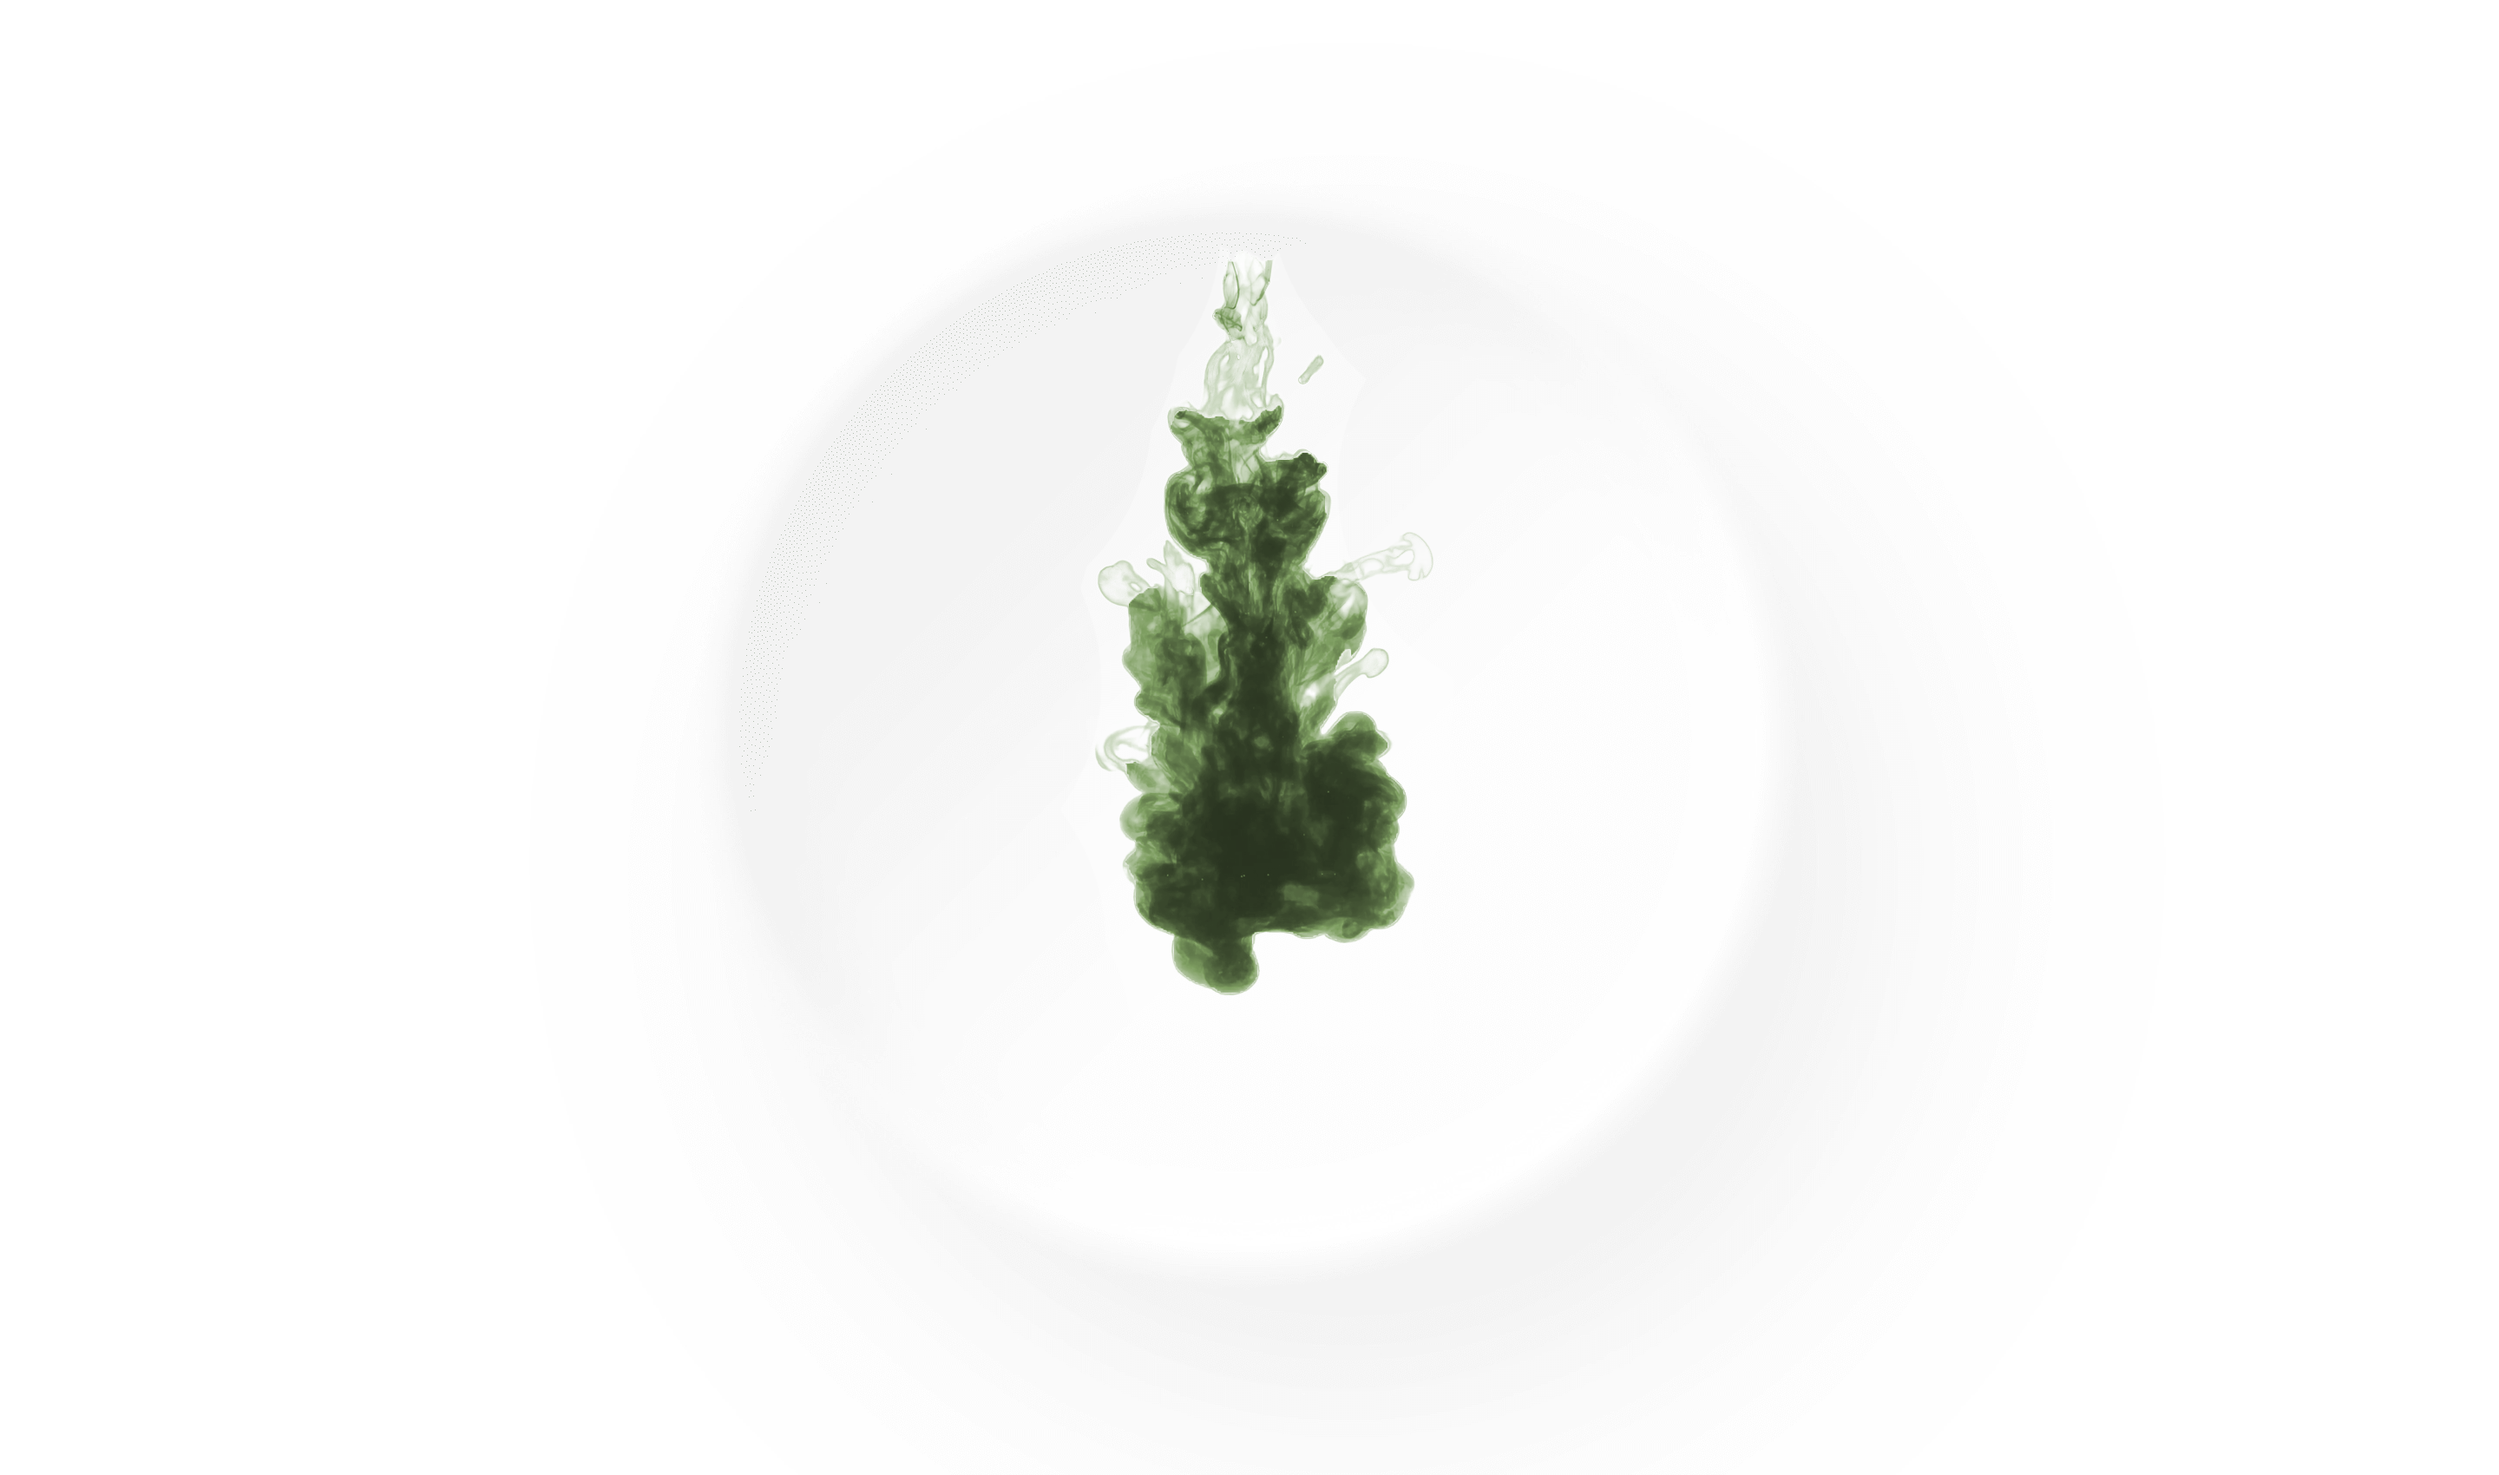
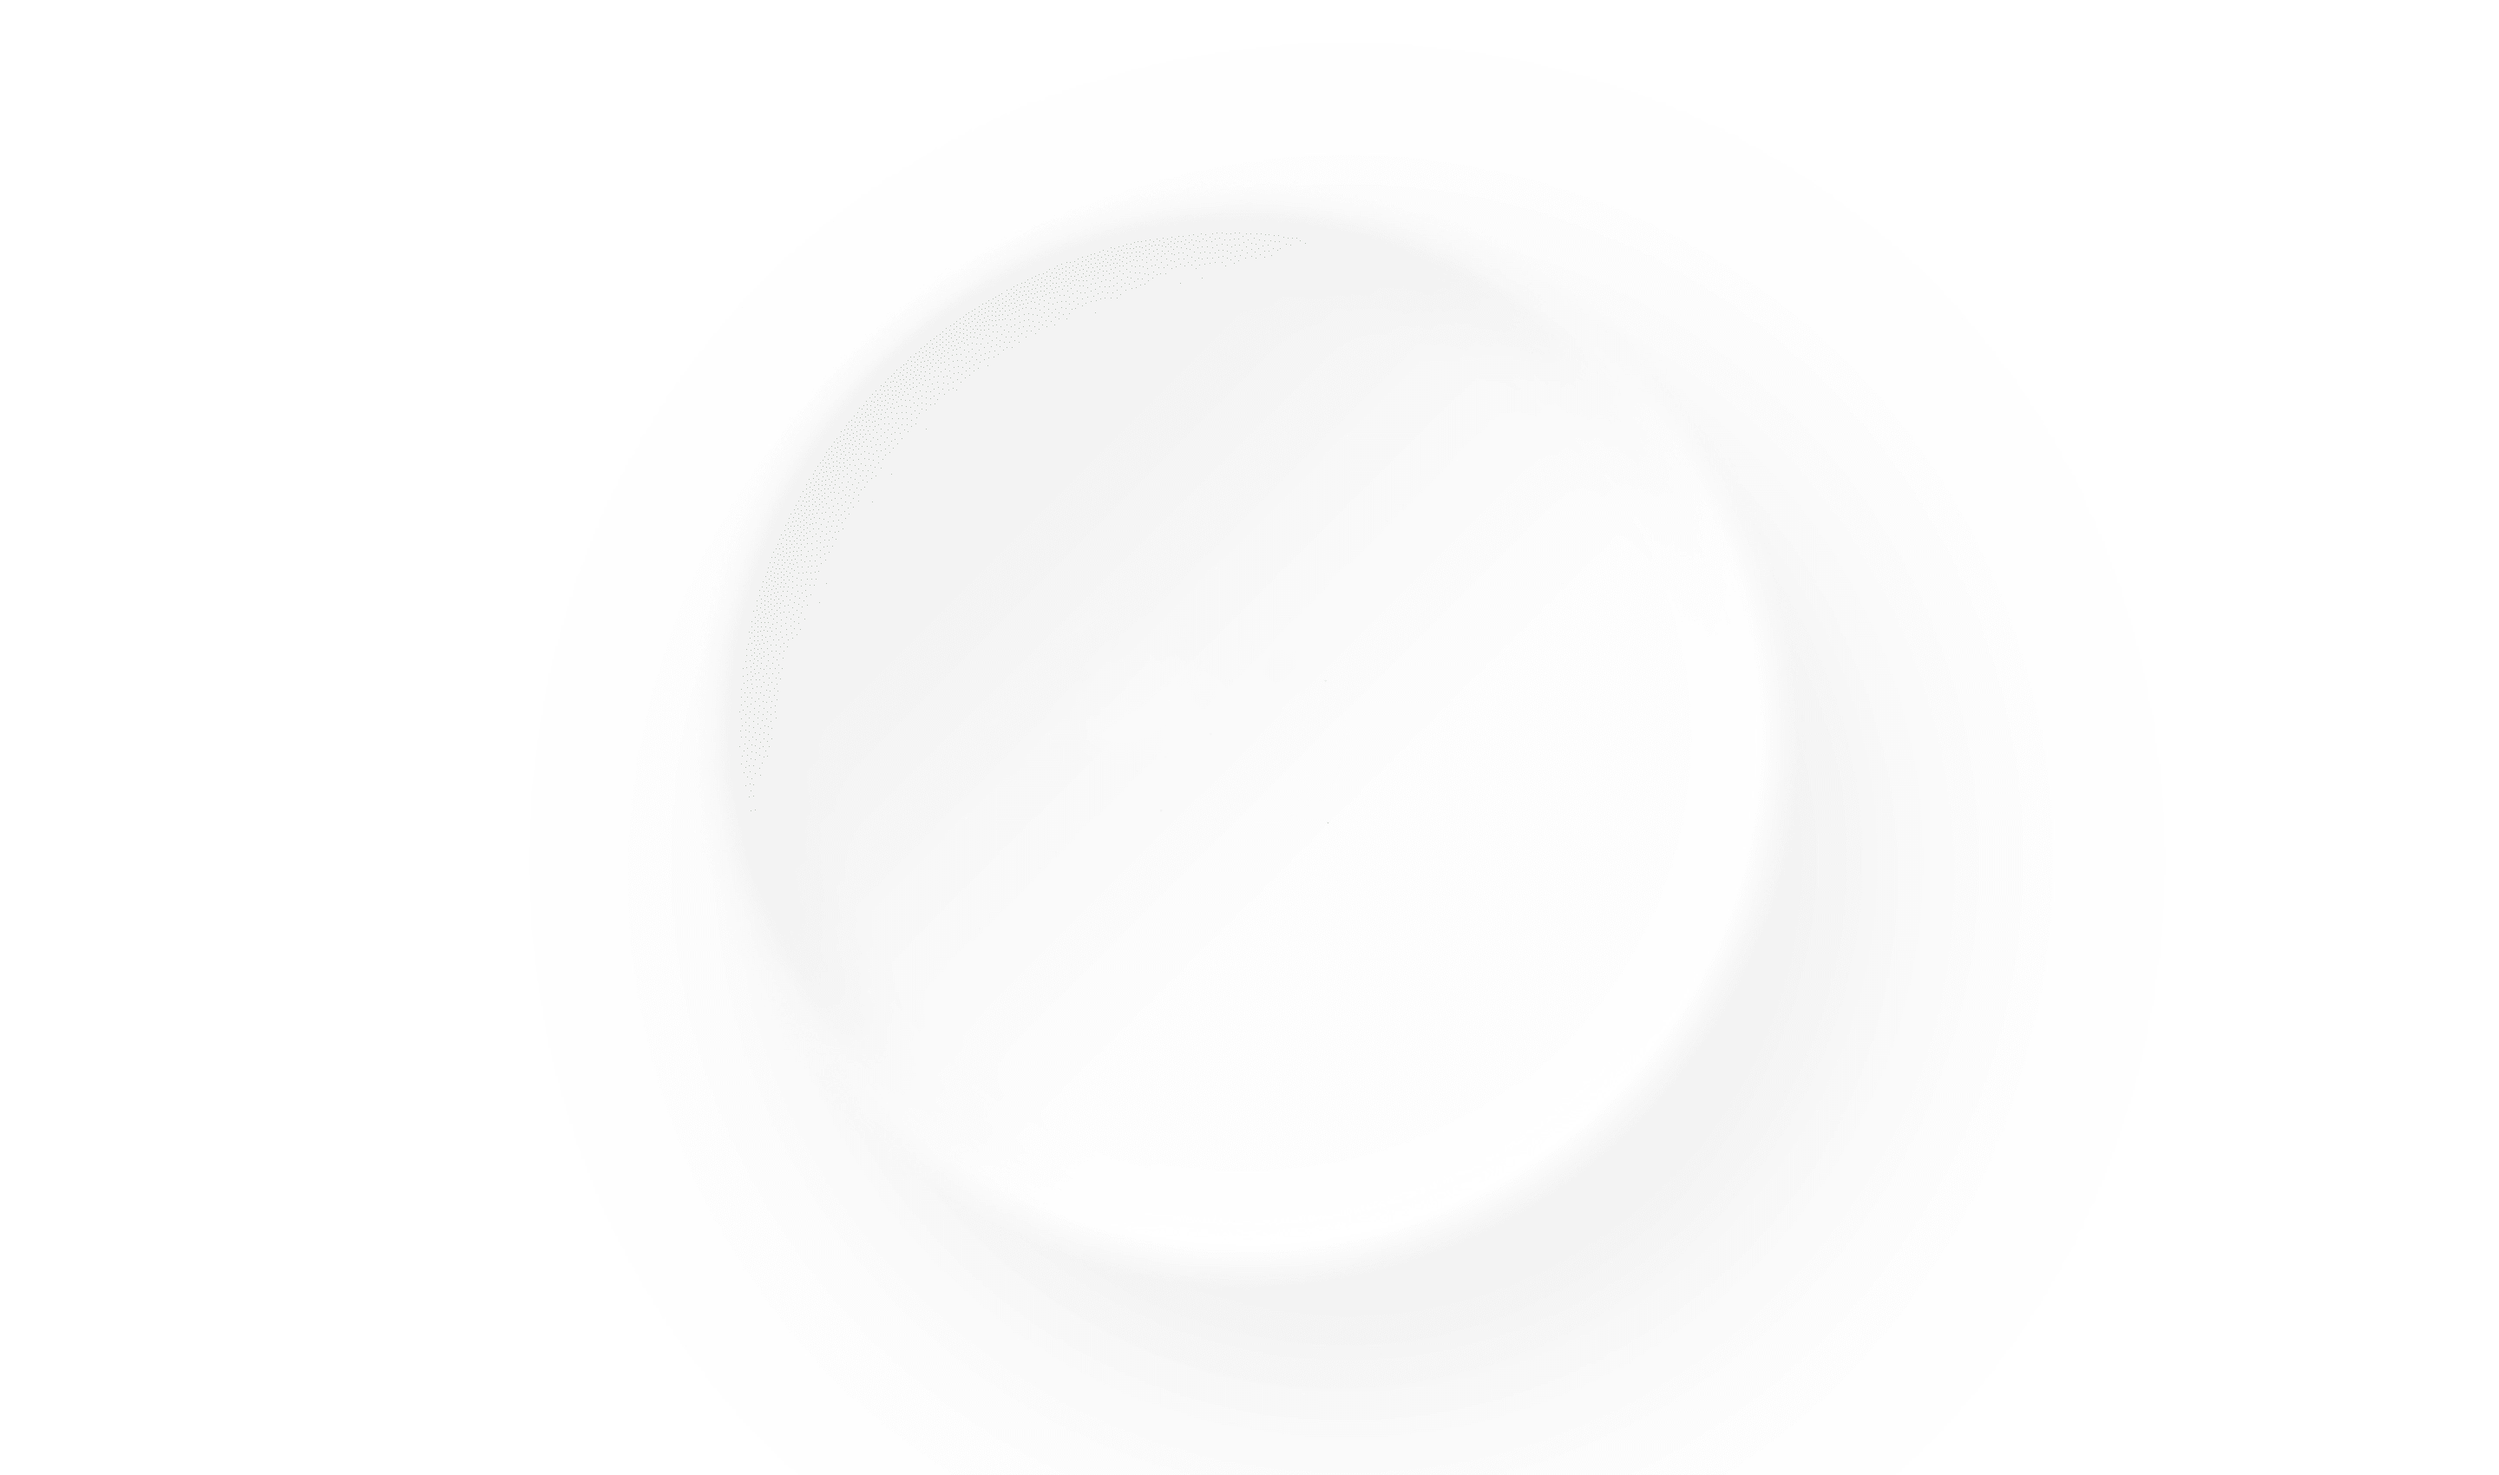
desktop .s2 Background

Changed region(s): [[0.4375, 0.1871, 0.5625, 0.6859]]

diff --git a/style.css b/style.css
@@ -1234,7 +1234,7 @@ footer .r4 .wrapper-right p {
 
     /* Section 2 */
     .s2 .bg-image {
-        /* background-image: url(images/BG_explode_desktop.webp); */
+        background-image: url(images/BG_explode_desktop.webp);
     }
 
     div.logoMiddle {
